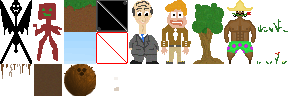
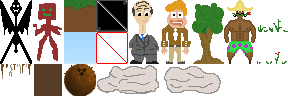
moln demo

Changed region(s): [[0.3125, 0.6562, 0.7812, 1.0]]

diff --git a/Tempo/src/tempo/GameEngine.java b/Tempo/src/tempo/GameEngine.java
@@ -75,6 +75,11 @@ public class GameEngine implements Runnable {
         if(!gp.isPaused){
             gp.enemy.x += gp.enemy.xSpeed;
             gp.enemy.y += gp.enemy.ySpeed;   
+            
+            gp.clouds.get(0).x += gp.clouds.get(0).SpeedX;
+            gp.clouds.get(1).x += gp.clouds.get(1).SpeedX;
+            
+            
             gp.enemy.ySpeed += gp.enemy.gravity;
             
             
@@ -126,6 +131,9 @@ public class GameEngine implements Runnable {
                             for(int i = 0;i<gp.blocks.size();i++){
                                 gp.blocks.get(i).x += 10;
                             }
+                            for(int i = 0;i<gp.clouds.size();i++){
+                                gp.clouds.get(i).x += 10;
+                            }
                             for(int i = 0;i<gp.bullets.size();i++){
                                 gp.bullets.get(i).x += 10;
                             }
@@ -142,6 +150,9 @@ public class GameEngine implements Runnable {
                 if(gp.enemy.x >= 600){
                             for(int i = 0;i<gp.blocks.size();i++){
                                 gp.blocks.get(i).x += -10;
+                            }
+                            for(int i = 0;i<gp.clouds.size();i++){
+                                gp.clouds.get(i).x += -10;
                             }
                             for(int i = 0;i<gp.bullets.size();i++){
                                 gp.bullets.get(i).x += -10;

diff --git a/Tempo/src/tempo/GamePanel.java b/Tempo/src/tempo/GamePanel.java
@@ -28,6 +28,7 @@ public class GamePanel extends JPanel{
     
     ArrayList<Block> blocks = new ArrayList<Block>();
     ArrayList<Block> sky = new ArrayList<Block>();
+    ArrayList<Block> clouds = new ArrayList<Block>();
     ArrayList<Bullet> bullets = new ArrayList<Bullet>();
     
     public Collision coll = new Collision();
@@ -38,6 +39,12 @@ public class GamePanel extends JPanel{
         int row = 0;
         int collumn = 0;
         sky.add(new Block(0, 0, 1200, 740, ss.getSprite(2, 1, 1, 1), false));
+        
+        clouds.add(new Block(blockSize*3, blockSize*2, blockSize*2, blockSize, ss.getSprite(3, 2, 2, 1), false));
+        clouds.add(new Block(blockSize*7, blockSize*1, blockSize*2, blockSize, ss.getSprite(5, 2, 2, 1), false));
+        clouds.get(0).SpeedX = 1;
+        clouds.get(1).SpeedX = 2;
+        
         
         blocks.add(new Block(blockSize * 4, blockSize * 7, blockSize, blockSize*2, ss.getSprite(6, 0, 1, 2), false));
         blocks.add(new Block(blockSize * 2, blockSize * 7, blockSize, blockSize*2, ss.getSprite(6, 0, 1, 2), false));
@@ -66,6 +73,9 @@ public class GamePanel extends JPanel{
         for(int i = 0;i<sky.size();i++){
             sky.get(i).paint(g);
         }
+        for(int i = 0;i<clouds.size();i++){
+            clouds.get(i).paint(g);
+        }   
         for(int i = 0;i<blocks.size();i++){
             blocks.get(i).paint(g);
         }

diff --git a/Tempo/src/tempo/sprites/Block.java b/Tempo/src/tempo/sprites/Block.java
@@ -16,8 +16,8 @@ import tempo.Collision;
 public class Block extends Sprites{
     
     public boolean collision;
-    public int SpeedX = 0;
-    public int SpeedY = 0;
+    public double SpeedX;
+    public double SpeedY;
     
     
     public Block(int x, int y, int width, int height, BufferedImage image, boolean collision){
